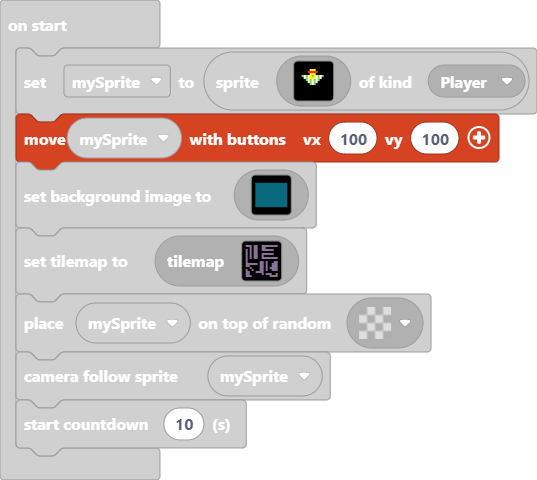
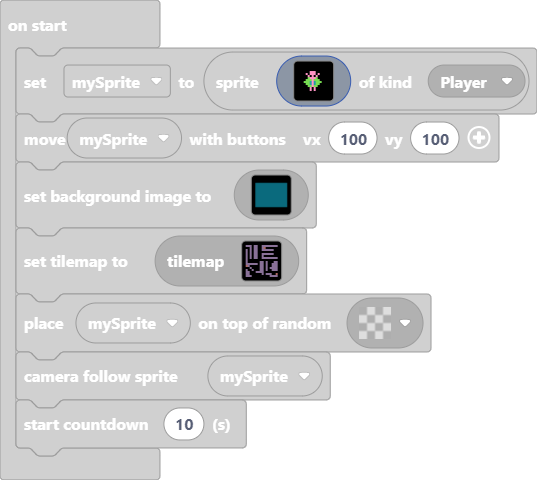
Update pxt.json, main.blocks, main.ts

Changed region(s): [[0.0298, 0.0938, 0.9534, 0.375]]

diff --git a/main.ts b/main.ts
@@ -3,19 +3,19 @@ scene.onOverlapTile(SpriteKind.Player, sprites.dungeon.chestClosed, function (sp
 })
 let mySprite = sprites.create(img`
     . . . . . . . . . . . . . . . . 
+    . . . . . f f f f f . . . . . . 
+    . . . . . f f f f f . . . . . . 
+    . . . . . . 3 3 3 . . . . . . . 
+    . . . . 3 . 3 3 3 . 3 . . . . . 
+    . . . . . 3 . 3 . 3 . . . . . . 
+    . . . . . 7 3 3 3 7 . . . . . . 
+    . . . . 7 7 7 3 7 7 7 . . . . . 
+    . . . 7 7 7 6 3 6 7 7 7 . . . . 
+    . . . . 7 7 6 3 6 7 7 . . . . . 
+    . . . . . 7 7 3 7 7 . . . . . . 
+    . . . . . . 3 . 3 . . . . . . . 
+    . . . . . . 3 . 3 . . . . . . . 
     . . . . . . . . . . . . . . . . 
-    . . . . . . 5 5 5 . . . . . . . 
-    . . . . . 2 2 2 2 2 . . . . . . 
-    . . . . . . 5 5 5 . . . . . . . 
-    . . 7 1 7 1 5 7 5 1 7 1 7 . . . 
-    . . f 1 7 1 5 5 5 1 7 1 f . . . 
-    . f . . 7 1 7 1 7 1 7 . . f . . 
-    f . . . f 1 7 1 7 1 f . . . f . 
-    . . . . f . 7 1 7 . f . . . . . 
-    . . . . f . . . . . f . . . . . 
-    . . . . f . . . . . f . . . . . 
-    . . . . f . . . . . f . . . . . 
-    . . . . f . . . . . f . . . . . 
     . . . . . . . . . . . . . . . . 
     . . . . . . . . . . . . . . . . 
     `, SpriteKind.Player)
